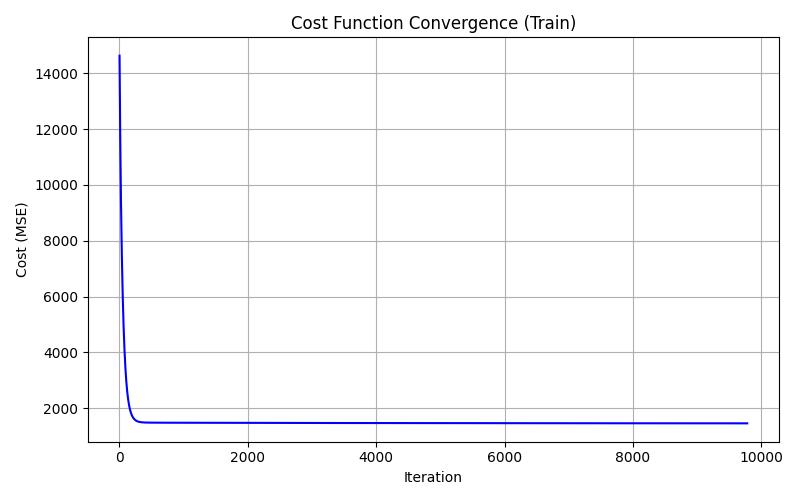
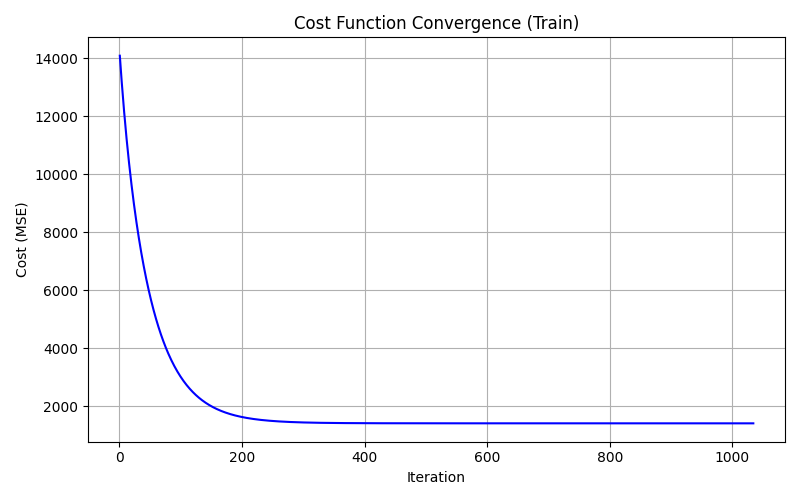
feat: Generate and save training/testing performance and cost history plots.

diff --git a/code.py b/code.py
@@ -3,9 +3,9 @@ import pandas as pd
 import matplotlib.pyplot as plt
 import os
 
-# =========================
+# ================
 # 1) Load dataset
-# =========================
+# ================
 base_dir = os.path.dirname(__file__)
 csv_path = os.path.join(base_dir, "assets", "diabetes.csv")
 
@@ -15,9 +15,9 @@ X = df.drop('Y', axis=1).values
 y = df[['Y']].to_numpy()
 m = len(y)
 
-# =========================
+# ======================
 # 2) Train / Test split
-# =========================
+# ======================
 test_ratio = 0.2
 indices = np.random.permutation(m)
 
@@ -28,9 +28,9 @@ train_idx = indices[test_size:]
 X_train, X_test = X[train_idx], X[test_idx]
 y_train, y_test = y[train_idx], y[test_idx]
 
-# =========================
+# ====================================
 # 3) Feature scaling (Standardization)
-# =========================
+# ====================================
 X_mean = X_train.mean(axis=0)
 X_std  = X_train.std(axis=0)
 X_std[X_std == 0] = 1.0
@@ -41,18 +41,18 @@ X_test_scaled  = (X_test  - X_mean) / X_std
 X_train_scaled = np.hstack([np.ones((X_train_scaled.shape[0], 1)), X_train_scaled])
 X_test_scaled  = np.hstack([np.ones((X_test_scaled.shape[0], 1)),  X_test_scaled])
 
-# =========================
+# ================================
 # 4) Hyperparameters + convergence
-# =========================
+# ================================
 alpha = 0.01
 max_iters = 3000
 epsilon = 1e-3
 
 theta = np.zeros((X_train_scaled.shape[1], 1))
 
-# =========================
+# ================
 # 5) Cost function
-# =========================
+# ================
 def compute_cost(X, y, theta):
     m = len(y)
     predictions = X @ theta
@@ -60,9 +60,9 @@ def compute_cost(X, y, theta):
     cost = (1/(2*m)) * np.sum(error ** 2)
     return cost
 
-# =========================
+# ===========================================================
 # 6) Gradient Descent with automatic convergence (train only)
-# =========================
+# ===========================================================
 cost_history = []
 prev_cost = float('inf')
 
@@ -84,9 +84,9 @@ for i in range(max_iters):
 else:
     print(f"Reached max iterations {max_iters} with cost {cost_history[-1]:.4f}")
 
-# =========================
+# ===================================
 # 7) Final predictions (train & test)
-# =========================
+# ===================================
 y_train_pred = X_train_scaled @ theta
 y_test_pred  = X_test_scaled  @ theta
 
@@ -100,9 +100,9 @@ print(f"Train MSE: {train_mse:.4f}")
 print(f"Test  MSE: {test_mse:.4f}")
 print(f"\nFinal Coefficients (θ):\n{theta.ravel()}")
 
-# =========================
-# 8) Other plots
-# =========================
+# =========
+# 8) Plots
+# =========
 os.makedirs('results', exist_ok=True)
 
 # (a) Test set performance
